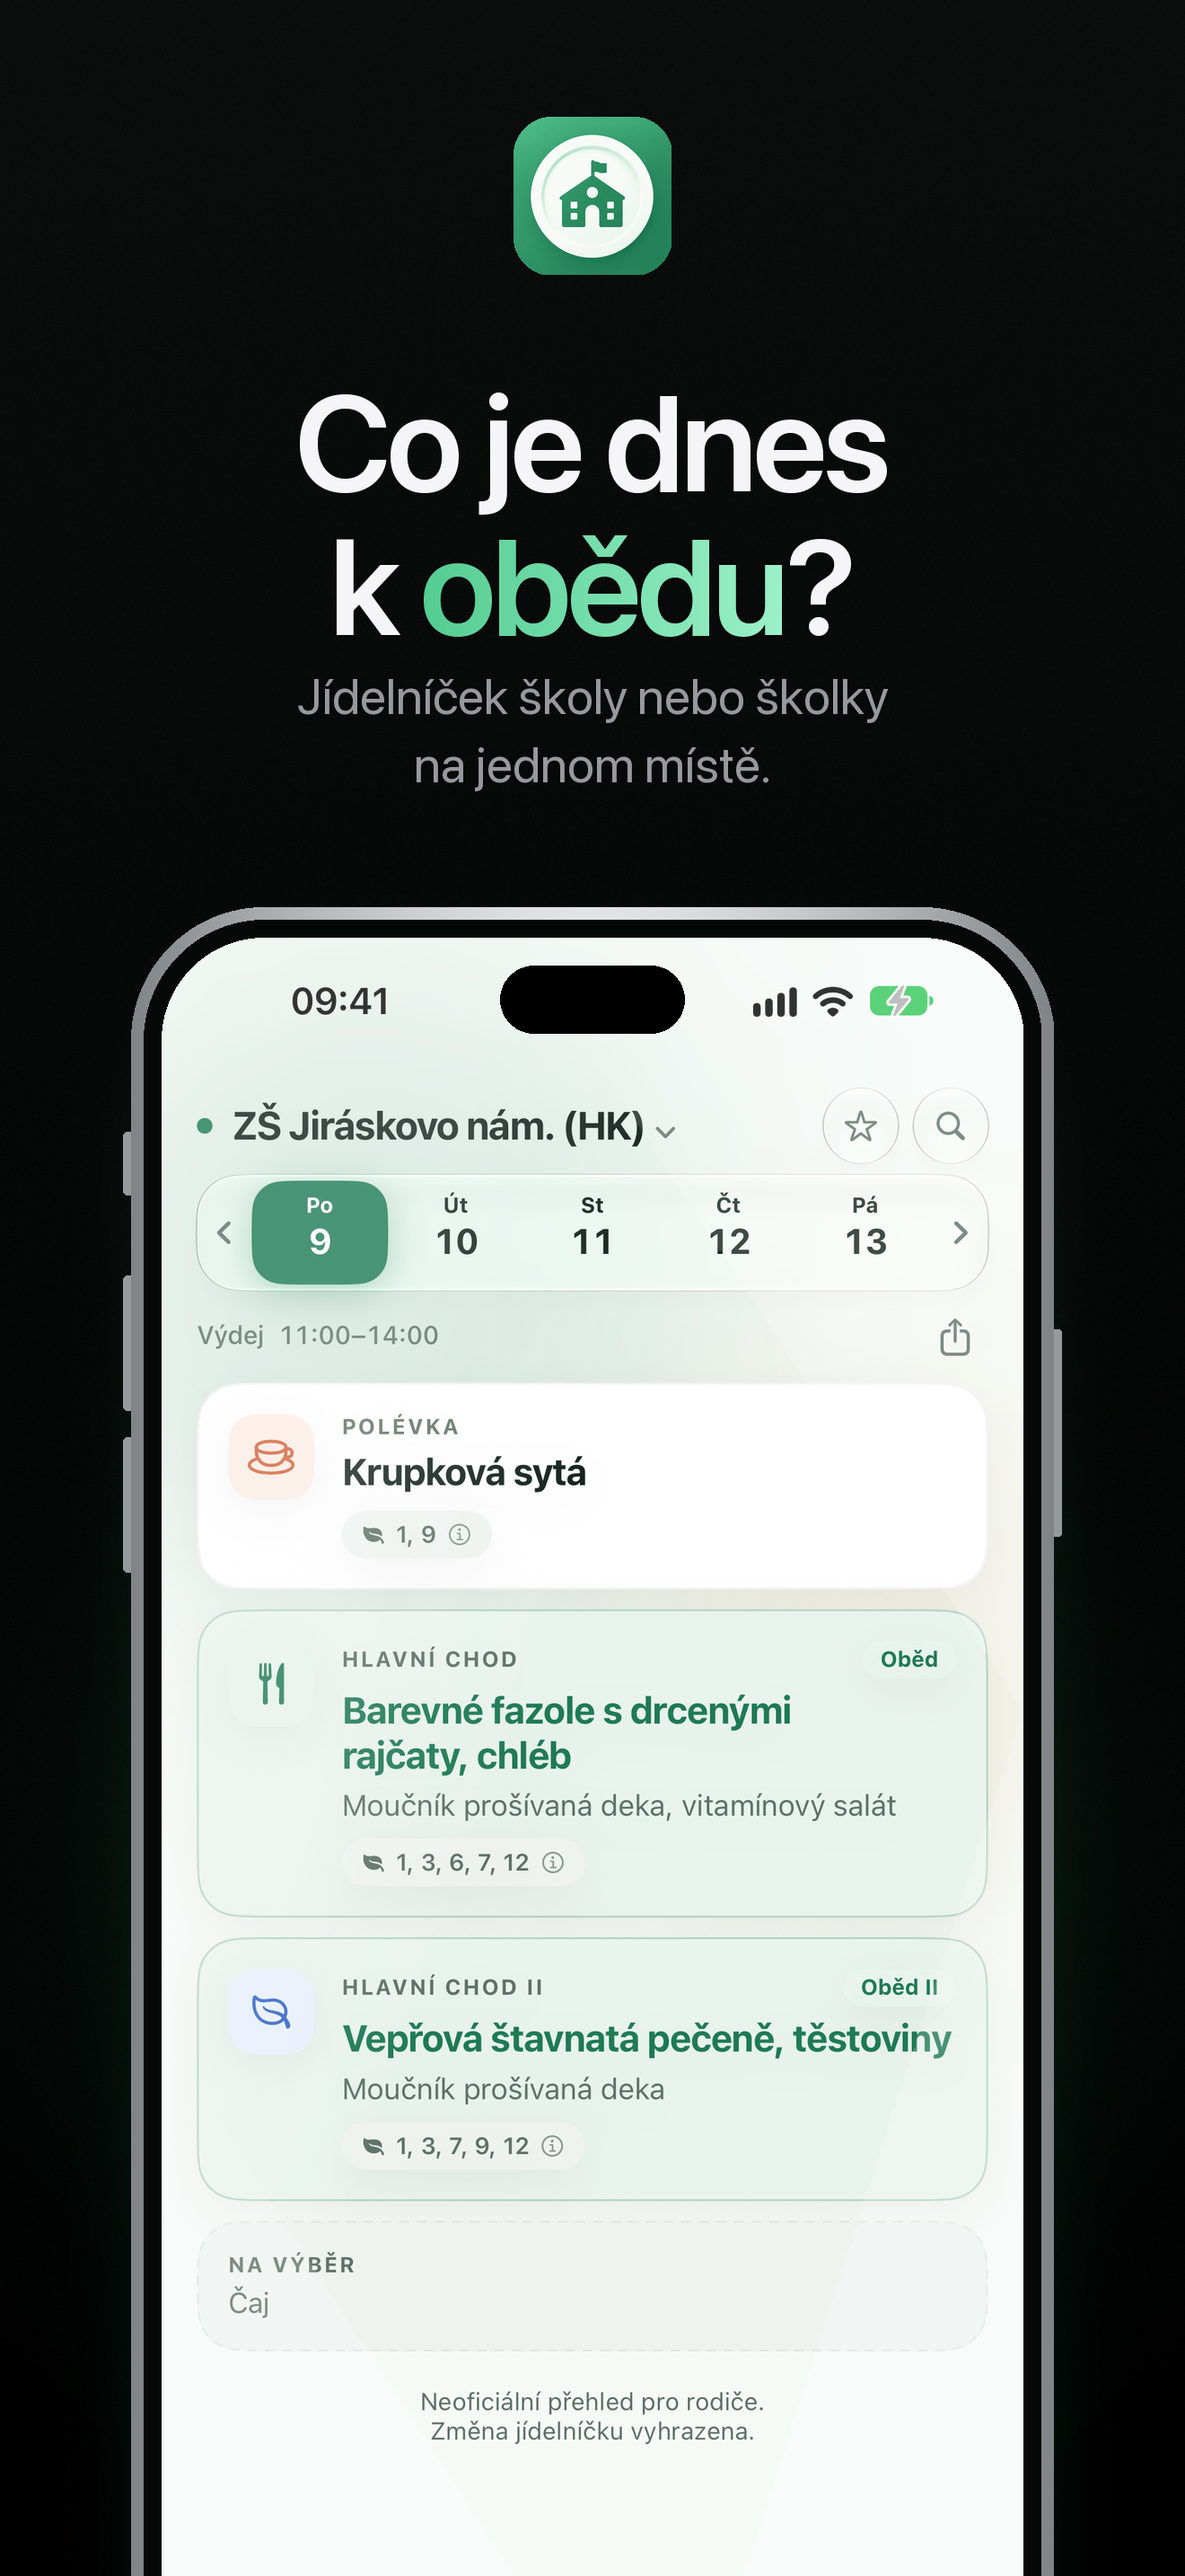
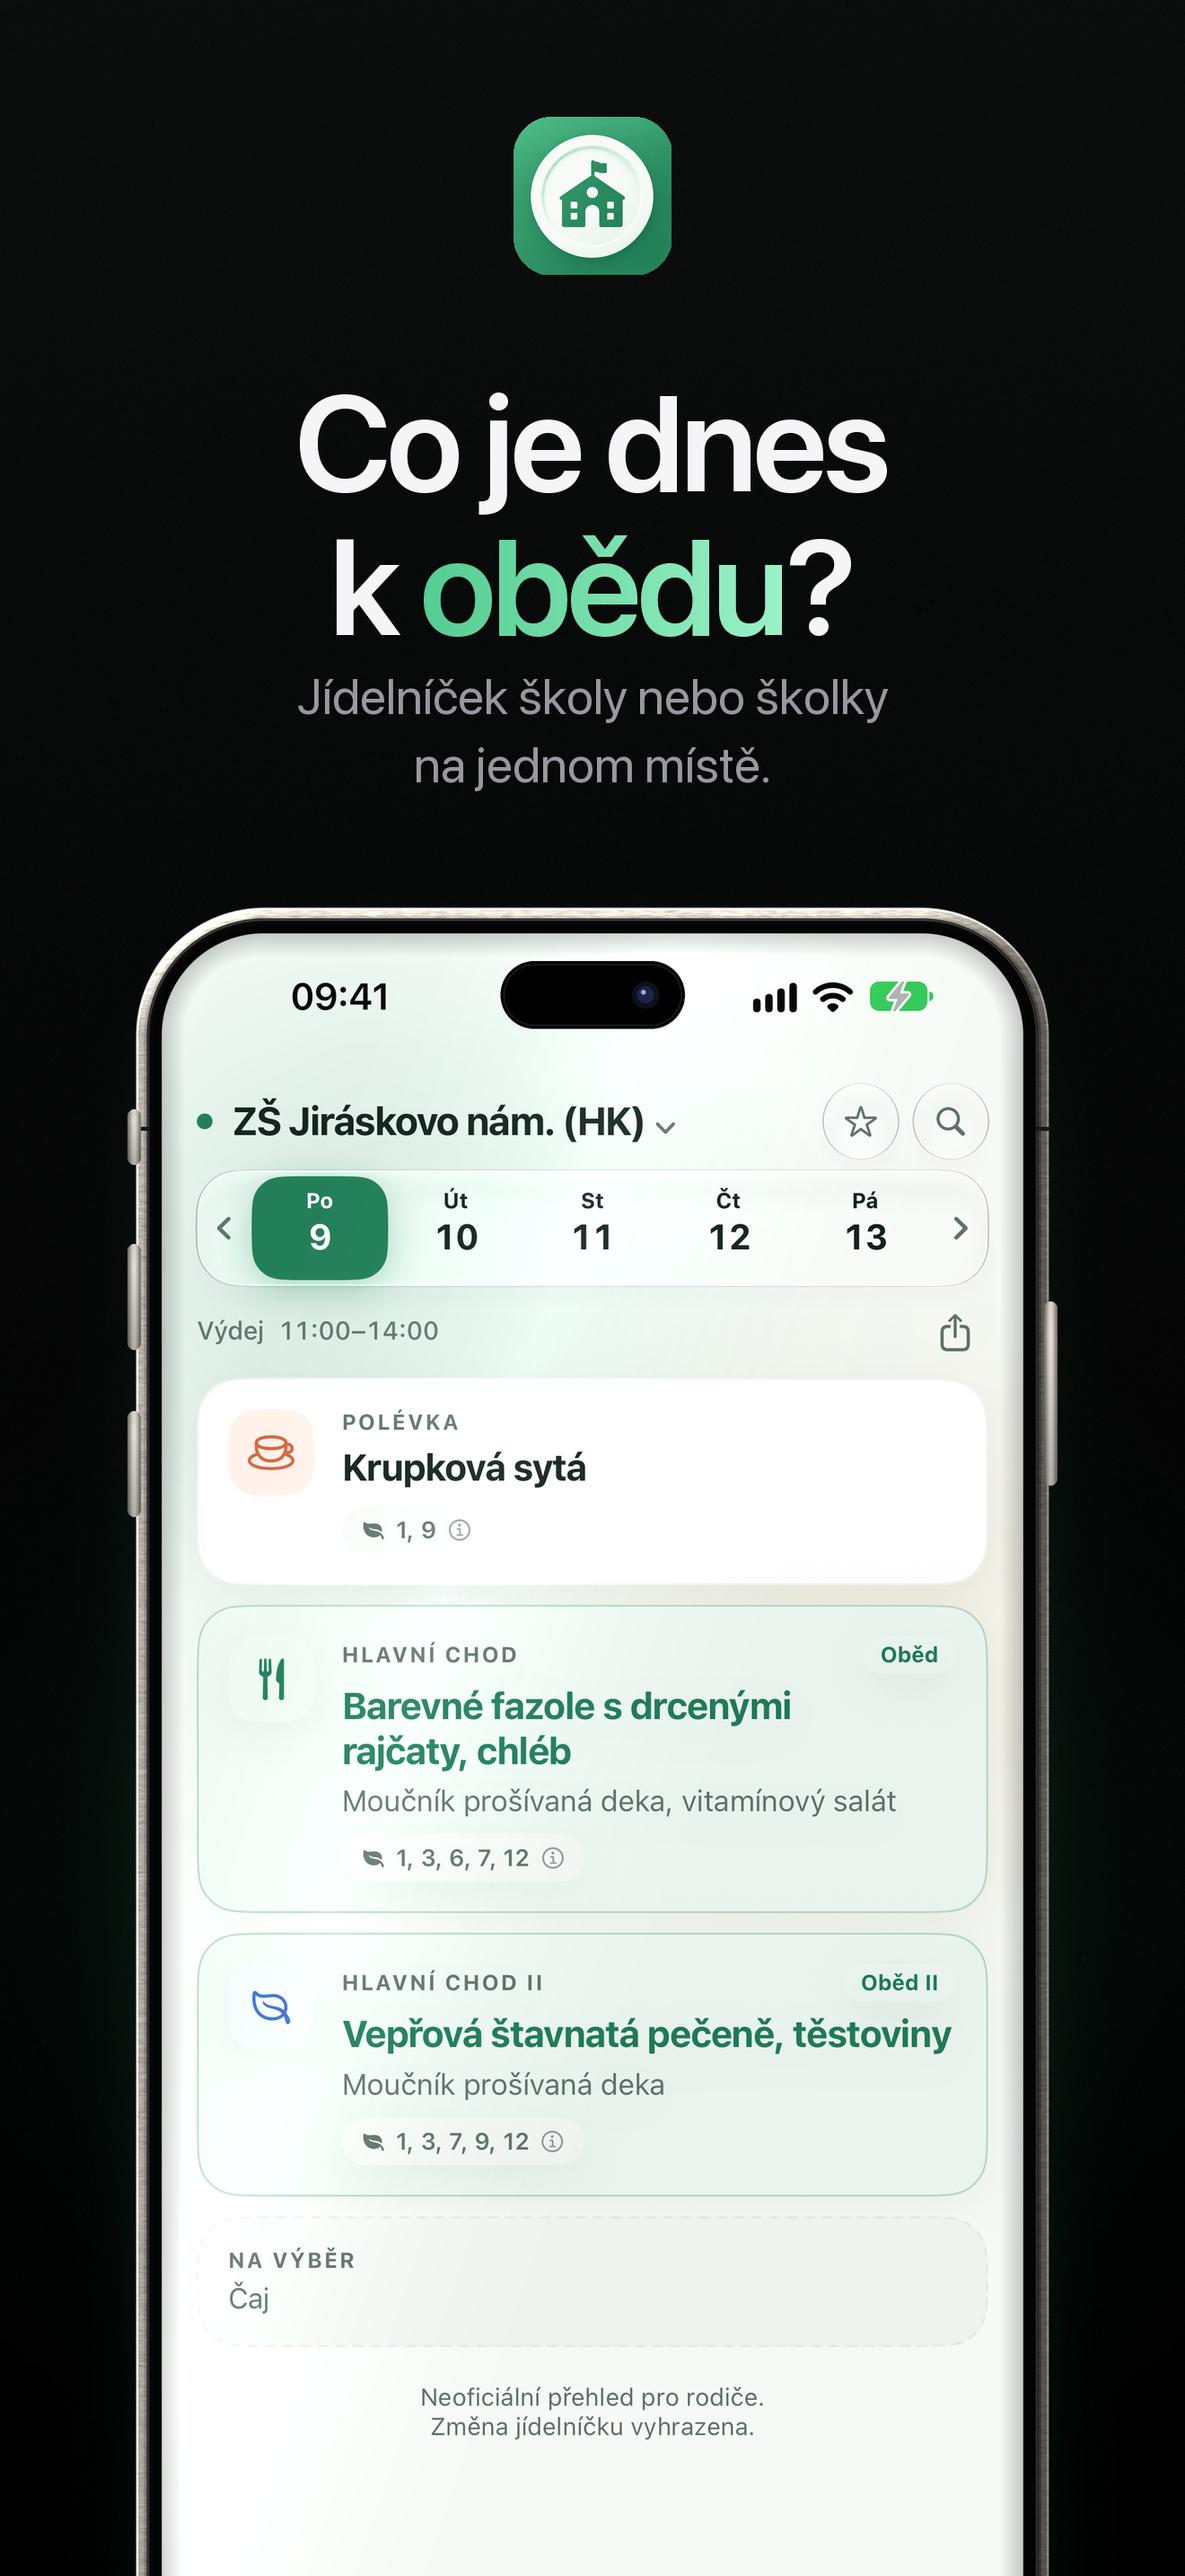
Fotorealistický mockup iPhonu (titanový rám, zkosená hrana, kartáčovaný kov, odlesk skla, Dynamic Island s kamerou) pro všechny sady screenshotů

diff --git a/tools/iphone_mockup.py b/tools/iphone_mockup.py
@@ -1,0 +1,150 @@
+"""Fotorealistický mockup iPhonu (titanový rám) vykreslený z vzdálenostního pole (SDF).
+
+    from iphone_mockup import iphone
+    obrazek_rgba = iphone(snimek_obrazovky, sirka_obrazovky_px)
+
+Rám se počítá fyzikálně: vzdálenost od okraje zaoblené obdélníkové křivky → zkosená hrana, normála →
+odlesk podle směru světla (zleva shora), kartáčovaná struktura titanu, černý rámeček pod sklem,
+odraz na skle, Dynamic Island s kamerou, antény a boční tlačítka. Vykresluje se v dvojnásobném
+rozlišení a zmenšuje se (hladké hrany).
+"""
+import numpy as np
+from PIL import Image, ImageChops, ImageDraw, ImageFilter
+
+SS = 2                                    # supersampling
+
+
+def _smooth(x, a=1.4):
+    return np.clip(x / a, 0.0, 1.0)
+
+
+def _sdf_zaoblene(h, w, r):
+    """Záporná vzdálenost od okraje zaobleného obdélníku (uvnitř kladná hloubka)."""
+    y, x = np.mgrid[0:h, 0:w].astype("float32")
+    px, py = np.abs(x - w / 2 + 0.5), np.abs(y - h / 2 + 0.5)
+    qx, qy = px - (w / 2 - r), py - (h / 2 - r)
+    venku = np.hypot(np.maximum(qx, 0), np.maximum(qy, 0))
+    uvnitr = np.minimum(np.maximum(qx, qy), 0)
+    return -(venku + uvnitr - r)         # hloubka: 0 na okraji, >0 uvnitř
+
+
+def _kartacovany(h, w, sila=0.05, rng=None):
+    rng = rng or np.random.default_rng(11)
+    sum_ = rng.normal(0, 1, (h, w)).astype("float32")
+    im = Image.fromarray(((sum_ * 40) + 128).clip(0, 255).astype("uint8"))
+    im = im.filter(ImageFilter.GaussianBlur(radius=0.8)).resize((w, h))
+    a = np.asarray(im, "float32")
+    a = Image.fromarray(a.astype("uint8")).filter(ImageFilter.BoxBlur(1))
+    # protažení vodorovně (kartáčování po délce hrany)
+    a = np.asarray(a, "float32")
+    k = 9
+    pad = np.pad(a, ((0, 0), (k, k)), mode="edge")
+    out = sum(pad[:, i:i + a.shape[1]] for i in range(2 * k + 1)) / (2 * k + 1)
+    out = (out - out.mean()) / (out.std() + 1e-6)
+    return 1.0 + out * sila
+
+
+def _tlacitko(sw, sh, cistota=0):
+    """Boční tlačítko: válcový přechod + horní/dolní odlesk."""
+    w, h = sw * SS, sh * SS
+    y, x = np.mgrid[0:h, 0:w].astype("float32")
+    u = x / (w - 1)
+    jas = 0.62 + 0.55 * np.clip(np.sin(np.pi * u), 0, 1) ** 1.5
+    v = y / (h - 1)
+    jas *= 0.85 + 0.25 * (1 - np.abs(v - 0.2) * 1.2).clip(0, 1)
+    barva = np.array((178, 173, 165), "float32")
+    rgb = np.clip(barva * jas[..., None], 0, 255)
+    im = Image.fromarray(rgb.astype("uint8"), "RGB").convert("RGBA")
+    m = Image.new("L", (w, h), 0)
+    ImageDraw.Draw(m).rounded_rectangle((0, 0, w - 1, h - 1), min(w, h) // 2 - 1, fill=255)
+    im.putalpha(m)
+    return im
+
+
+def iphone(shot, sw, barva=(176, 171, 163)):
+    """shot = obrázek obrazovky; sw = šířka obrazovky v px (výstup). Vrací RGBA včetně bočních tlačítek."""
+    sh = round(shot.size[1] * sw / shot.size[0])
+    side, bezel = 13, 16                                  # tloušťka kovu a černého rámečku (1×)
+    ob = side + bezel
+    w1, h1 = sw + 2 * ob, sh + 2 * ob
+    r1 = round(112 * sw / 940) + ob
+    w, h, r = w1 * SS, h1 * SS, r1 * SS
+    side_s, bez_s = side * SS, bezel * SS
+
+    depth = _sdf_zaoblene(h, w, r)
+    gy, gx = np.gradient(-depth)                          # směr ven (rostoucí vzdálenost od středu)
+    nrm = np.hypot(gx, gy) + 1e-6
+    nx, ny = gx / nrm, gy / nrm
+    lx, ly = -0.55, -0.83                                 # světlo zleva shora
+    ndl = nx * lx + ny * ly
+
+    # ── kovový rám ────────────────────────────────────────────────────
+    kart = _kartacovany(h, w, 0.045)
+    zaklad = np.array(barva, "float32")
+    jas = 0.58 + 0.78 * np.clip(ndl, 0, 1) ** 1.35 - 0.20 * np.clip(-ndl, 0, 1)
+    vert = 1.0 + 0.16 * (1 - np.linspace(0, 1, h, dtype="float32"))[:, None]    # nahoře o něco světlejší
+    jas = jas * vert * kart
+    # zkosená hrana: ostrá světlá linka u samého okraje + stín pod ní
+    rim = np.exp(-((depth - 1.6 * SS) / (1.2 * SS)) ** 2)
+    skos = np.exp(-((depth - (side_s - 2.2 * SS)) / (1.5 * SS)) ** 2)
+    kov = zaklad * jas[..., None]
+    kov += (rim * (70 + 120 * np.clip(ndl, 0, 1)))[..., None]
+    kov -= (skos * 38)[..., None]
+    kov = np.clip(kov, 0, 255)
+
+    # ── černý rámeček pod sklem ───────────────────────────────────────
+    t = ((depth - side_s) / bez_s).clip(0, 1)
+    cerna = np.stack([4 + 14 * np.clip(ndl, 0, 1) * (1 - t) ** 3 + 0 * t] * 3, axis=-1)
+    cerna = np.clip(cerna + (np.exp(-((depth - side_s - 1.2 * SS) / (1.0 * SS)) ** 2) * 55)[..., None], 0, 255)
+
+    # ── skládání vrstev podle hloubky ─────────────────────────────────
+    m_ven = _smooth(depth, 1.4 * SS)                                      # tvar těla
+    m_rám = _smooth(side_s - depth, 1.2 * SS)                             # kov nad hloubkou side
+    m_bez = _smooth(depth - side_s + 0.6 * SS, 1.0 * SS) * _smooth(side_s + bez_s - depth, 1.2 * SS)
+    m_scr = _smooth(depth - (side_s + bez_s) + 0.4 * SS, 1.0 * SS)
+    rgb = kov * m_rám[..., None] + cerna * (1 - m_rám)[..., None]
+    alfa = m_ven
+
+    # ── obrazovka ─────────────────────────────────────────────────────
+    sw2, sh2 = sw * SS, sh * SS
+    scr = shot.convert("RGB").resize((sw2, sh2), Image.LANCZOS)
+    scr_pl = np.zeros((h, w, 3), "float32")
+    scr_pl[ob * SS:ob * SS + sh2, ob * SS:ob * SS + sw2] = np.asarray(scr, "float32")
+    # vnitřní stín u okraje skla a odraz (diagonální pruh světla)
+    hl = np.clip((depth - (side_s + bez_s)) / (26 * SS), 0, 1)
+    scr_pl *= (0.80 + 0.20 * hl)[..., None]
+    y, x = np.mgrid[0:h, 0:w].astype("float32")
+    diag = (x / w) * 0.75 + (y / h) * 0.55
+    odraz = np.clip(1 - np.abs(diag - 0.45) / 0.34, 0, 1) ** 2 * 0.075 + np.clip(0.42 - diag, 0, 1) * 0.07
+    scr_pl = np.clip(scr_pl + 255 * odraz[..., None], 0, 255)
+    rgb = rgb * (1 - m_scr[..., None]) + scr_pl * m_scr[..., None]
+
+    # ── antény: tenké tmavé linky přes kov na bocích ──────────────────
+    im = Image.fromarray(np.clip(rgb, 0, 255).astype("uint8"), "RGB").convert("RGBA")
+    im.putalpha(Image.fromarray((np.clip(alfa, 0, 1) * 255).astype("uint8"), "L"))
+    d = ImageDraw.Draw(im)
+    for yy in (0.115, 0.885):
+        y0 = int(h * yy)
+        d.rectangle((0, y0 - 2 * SS, side_s + 2 * SS, y0 + 2 * SS), fill=(26, 26, 28, 230))
+        d.rectangle((w - side_s - 2 * SS, y0 - 2 * SS, w, y0 + 2 * SS), fill=(26, 26, 28, 230))
+    # Dynamic Island + kamera
+    iw, ih = round(290 * sw / 1320 * 0.97) * SS, round(107 * sw / 1320 * 0.97) * SS
+    ix, iy = ob * SS + (sw2 - iw) // 2, ob * SS + round(43 * sw / 1320) * SS
+    d.rounded_rectangle((ix, iy, ix + iw, iy + ih), ih // 2, fill=(0, 0, 0, 255))
+    d.rounded_rectangle((ix + 3 * SS, iy + 3 * SS, ix + iw - 3 * SS, iy + ih - 3 * SS), ih // 2 - 3 * SS, outline=(22, 24, 26, 255), width=2 * SS)
+    cx, cy, cr = ix + iw - ih // 2 - 6 * SS, iy + ih // 2, ih // 5
+    d.ellipse((cx - cr, cy - cr, cx + cr, cy + cr), fill=(14, 16, 28, 255))
+    d.ellipse((cx - cr * .62, cy - cr * .62, cx + cr * .62, cy + cr * .62), fill=(30, 36, 70, 255))
+    d.ellipse((cx - cr * .32, cy - cr * .35, cx + cr * .02, cy - cr * .02), fill=(150, 170, 230, 255))
+
+    # ── boční tlačítka ────────────────────────────────────────────────
+    tl = 9
+    plocha = Image.new("RGBA", (w + 2 * tl * SS, h), (0, 0, 0, 0))
+    plocha.alpha_composite(im, (tl * SS, 0))
+    for y0, v in ((int(h1 * 0.105), 62), (int(h1 * 0.175), 118), (int(h1 * 0.262), 118)):     # akce + hlasitost
+        b = _tlacitko(tl + 6, v)
+        plocha.alpha_composite(b, (0, y0 * SS))
+    b = _tlacitko(tl + 6, 205)                                                              # boční
+    plocha.alpha_composite(b, (w + 2 * tl * SS - (tl + 6) * SS, int(h1 * 0.205) * SS))
+    vyst = plocha.resize((plocha.size[0] // SS, plocha.size[1] // SS), Image.LANCZOS)
+    return vyst

diff --git a/tools/make-screenshots-barevne.py b/tools/make-screenshots-barevne.py
@@ -211,7 +211,7 @@ def kov(w, h, r, svetly=(226, 228, 230), tmavy=(128, 132, 135)):
     return g
 
 
-def iphone(shot, sw):
+def iphone_stary(shot, sw):
     sh = round(shot.size[1] * sw / shot.size[0])
     shot = shot.resize((sw, sh), Image.LANCZOS)
     obrazovka_r = round(112 * sw / 940)
@@ -242,6 +242,11 @@ def iphone(shot, sw):
     ix, iy = ox + ob + (sw - iw) // 2, ob + round(43 * sw / 1320)
     ImageDraw.Draw(pl).rounded_rectangle((ix, iy, ix + iw, iy + ih), ih // 2, fill=(0, 0, 0, 255))
     return pl
+
+
+import sys as _sys
+_sys.path.insert(0, str(Path(__file__).resolve().parent))
+from iphone_mockup import iphone  # fotorealistický rám
 
 
 # ── slide ─────────────────────────────────────────────────────────────
